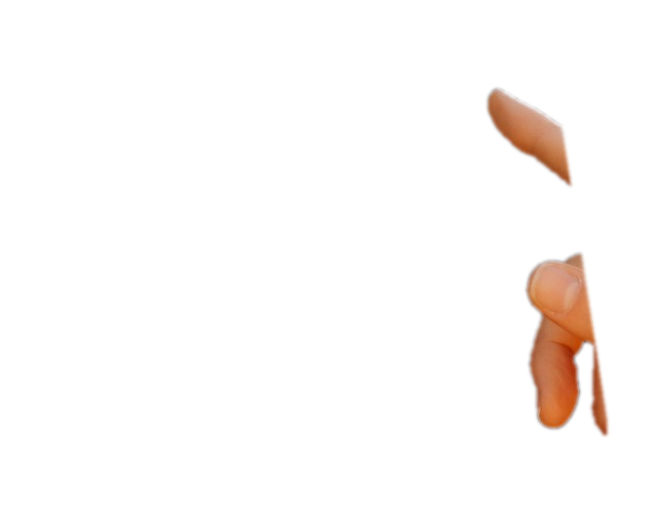
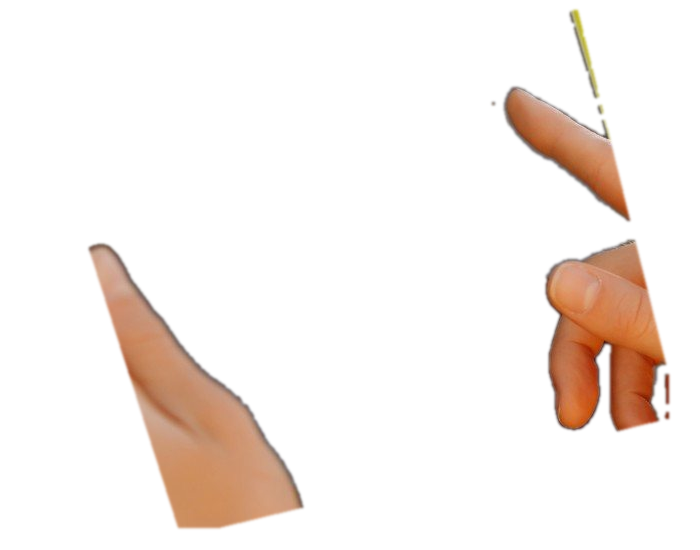
Tablet intro: exact screen quad, left hand now covers the render
Claude-Session: https://claude.ai/code/session_01AHckBnDBuQk4hAXAJDHo2P

Changed region(s): [[0.697, 0.0, 0.9697, 0.8453], [0.1212, 0.4226, 0.4545, 0.966]]

diff --git a/js/scene.js b/js/scene.js
@@ -38,8 +38,8 @@
 
   // Tablet fotoğrafı (2000x1358): ekran dörtgeni ve el katmanının konumu
   const TW = 2000, TH = 1358;
-  const QUAD = [[562, 420], [1058, 380], [1119, 777], [810, 832]]; // sol-üst, sağ-üst, sağ-alt, sol-alt
-  const HAND = [520, 350]; // el katmanının fotoğraftaki sol-üst konumu
+  const QUAD = [[560, 421], [1056, 381], [1147, 747], [699, 856]]; // sol-üst, sağ-üst, sağ-alt, sol-alt
+  const HAND = [500, 350]; // el katmanının fotoğraftaki sol-üst konumu
   const PA = 0.2;          // tablet aşamasının toplam kaydırmadaki payı
 
   // 4 köşe eşlemesinden CSS matrix3d (görsel dikdörtgeni -> ekran dörtgeni)
@@ -70,7 +70,7 @@
     const hx0 = sw / 2 / s0, hy0 = sh / 2 / s0;
     const cx0 = portrait ? 810 : hx0, cy0 = Math.min(TH - hy0, Math.max(hy0, portrait ? hy0 : TH / 2));
     const qx = (QUAD[0][0] + QUAD[1][0] + QUAD[2][0] + QUAD[3][0]) / 4, qy = (QUAD[0][1] + QUAD[1][1] + QUAD[2][1] + QUAD[3][1]) / 4;
-    const s1 = Math.max(sw / 557, sh / 452) * 1.04;
+    const s1 = Math.max(sw / 590, sh / 480) * 1.04;
     const e = ease(q);
     const s = Math.exp(Math.log(s0) + (Math.log(s1) - Math.log(s0)) * e);
     return { s, cx: lerp(cx0, qx, e), cy: lerp(cy0, qy, e) };

diff --git a/index.html b/index.html
@@ -22,7 +22,7 @@
   <div class="scene-pin"><div class="stage">
     <div class="tab-world" id="tabWorld"><img class="tab-photo" src="assets/tablet.jpg" alt="Tabletin ekranına dokunan bir el" width="2000" height="1358" fetchpriority="high"></div>
     <div class="world" id="world"><img src="assets/house.jpg" alt="Akşam ışığında katları açık gösterilen örnek ev kesiti, arkasında tebeşir mimari çizimler" width="2000" height="1328" fetchpriority="high"></div>
-    <div class="tab-world tab-hand-wrap" id="handWrap"><img class="tab-hand" src="assets/tablet-hand.png" alt="" width="660" height="530"></div>
+    <div class="tab-world tab-hand-wrap" id="handWrap"><img class="tab-hand" src="assets/tablet-hand.png" alt="" width="700" height="550"></div>
     <div class="scene-shade" id="sceneShade"></div>
     <div class="scene-intro" id="sceneIntro">
       <p class="eyebrow rise" style="color:#f0d9b8">Mimarlık &amp; İç Mimarlık · İstanbul</p>

diff --git a/css/style.css b/css/style.css
@@ -455,9 +455,9 @@ a.video-play{display:block}
 
 /* tablet fotoğrafı ve ekrana oturan ev render'ı */
 .tab-world{position:absolute;top:0;left:0;width:2000px;height:1358px;transform-origin:0 0;will-change:transform,opacity;pointer-events:none}
-.tab-world.tab-hand-wrap{width:660px;height:530px}
+.tab-world.tab-hand-wrap{width:700px;height:550px}
 .tab-photo{width:2000px;height:1358px;max-width:none;display:block}
-.tab-hand{width:660px;height:530px;max-width:none;display:block}
+.tab-hand{width:700px;height:550px;max-width:none;display:block}
 .world{backface-visibility:hidden;z-index:1}
 #tabWorld{z-index:0}
 #handWrap{z-index:2}
